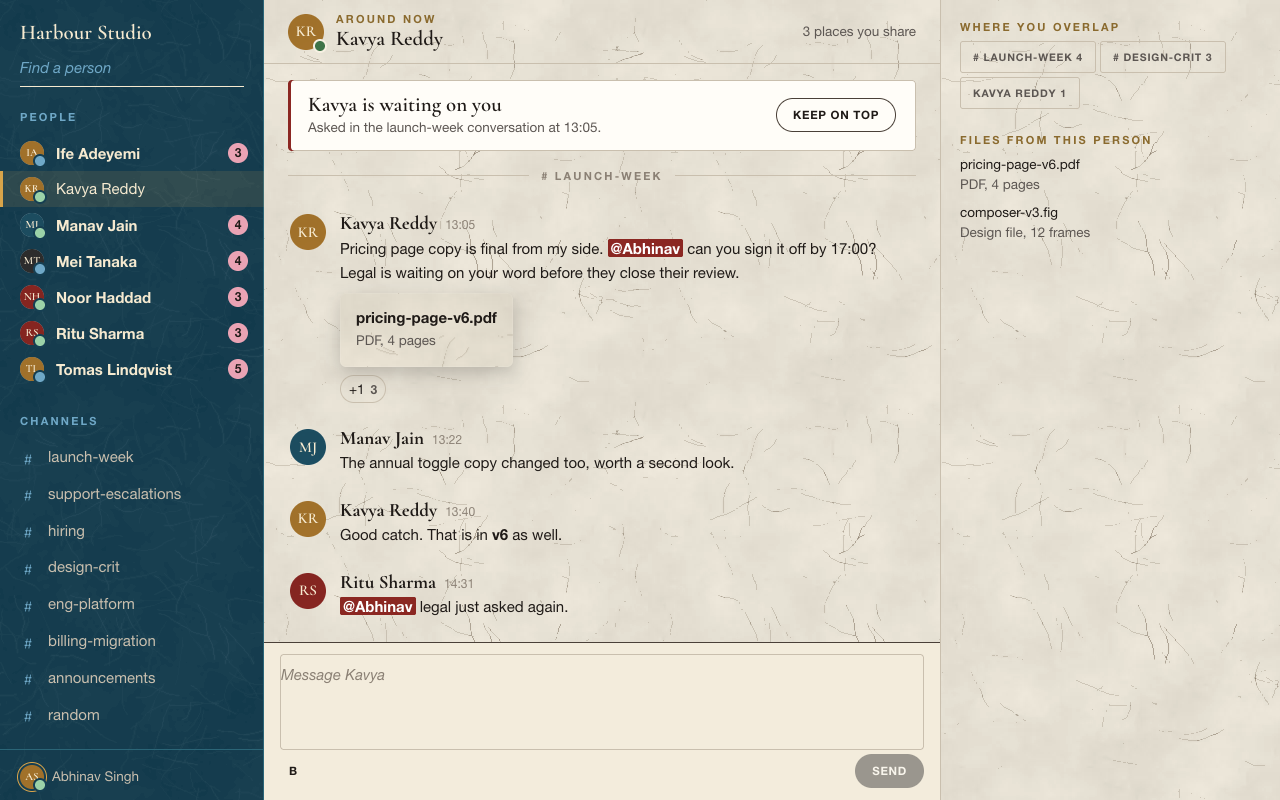
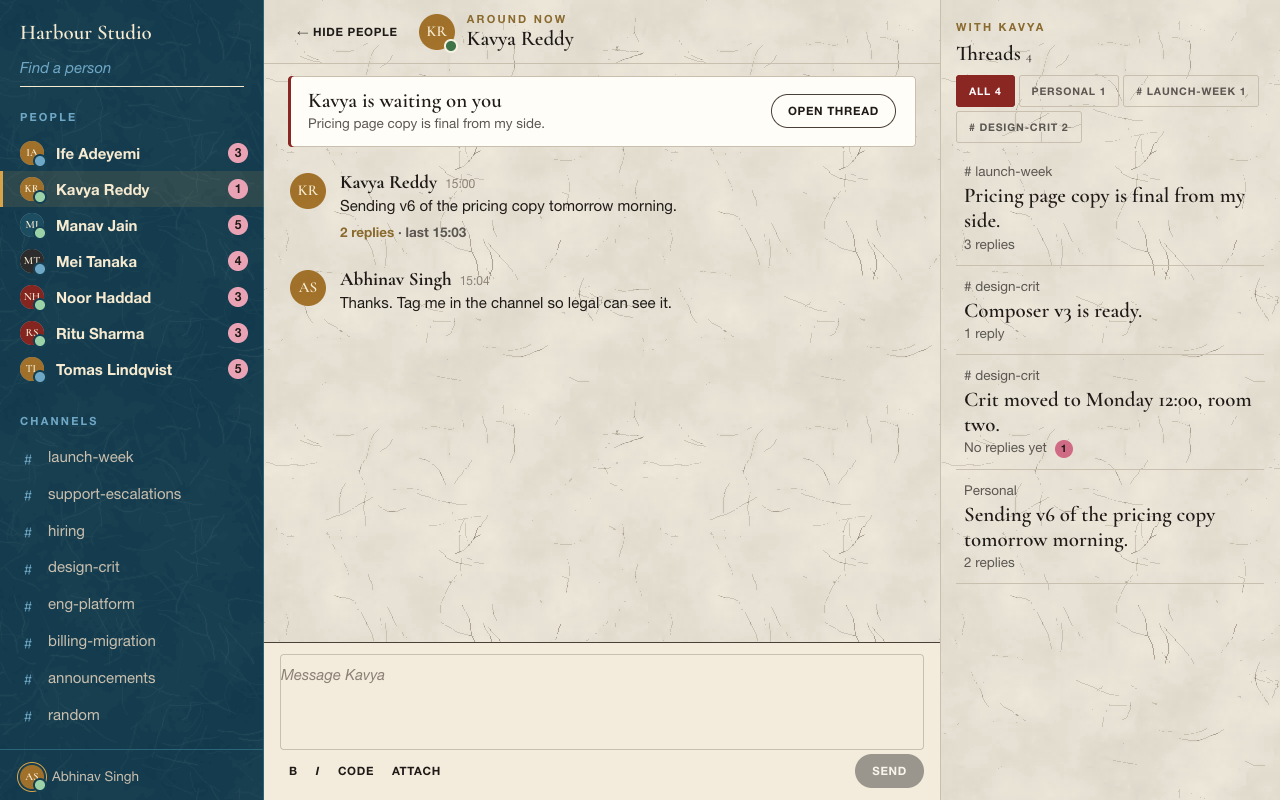
Chat 05: people first, threads panel with filters, channels, closable rail

diff --git a/products/chat/05-people-first/main.tsx b/products/chat/05-people-first/main.tsx
@@ -1,61 +1,113 @@
-// You go to a person, not a channel, and see everything you share with them
-import { useCallback, useState } from 'react';
+// You go to a person: your personal chat opens first, and any thread with them opens beside it
+import { useCallback, useEffect, useRef, useState } from 'react';
 import { createRoot } from 'react-dom/client';
-import { AppShell, Rail, RailSection, RailItem, Tag, Banner, Avatar, Button, Input, EmptyState, StreamDivider, Toast } from '../../../design-system/components';
-import { CONVS, ME, Composer, Talk, title, mine, first } from '../kit';
+import { AppShell, Rail, RailSection, RailItem, Tag, Banner, Avatar, Button, Input, Modal, EmptyState, StreamDivider } from '../../../design-system/components';
+import { CONVS, ME, Composer, Talk, title, mine, first, rich, useNarrow } from '../kit';
 import type { Conv, Msg } from '../kit';
 import './styles.css';
 
-type Item = { conv: Conv; msgs: Msg[] };
-const threads = (c: Conv) => c.messages.map((m) => [m, ...(m.replies ?? [])]);
-const PEOPLE = [...new Set(CONVS.flatMap((c) => threads(c).flat().map((m) => m.who)))].filter((p) => p !== ME).sort();
-const online = (p: string) => CONVS.find((c) => c.kind === 'dm' && c.name === p)?.online ?? !/Mei|Ife/.test(p);
-const shared = (p: string): Item[] => CONVS.map((c) => ({ conv: c, msgs: threads(c).filter((t) => t.some((m) => m.who === p)).flat() })).filter((i) => i.msgs.length);
-const unread = (p: string) => shared(p).flatMap((i) => i.msgs).filter((m) => m.who === p && m.isNew).length;
-const asks = (p: string) => shared(p).flatMap((i) => i.msgs.filter((m) => m.who === p && m.text.includes(`@${first(ME)}`)));
+// Sample replies so personal messages can have threads too.
+const DM_REPLIES: Record<string, Msg[]> = {
+  ky1: [{ id: 'ky1a', who: 'Kavya Reddy', time: '15:02', yesterday: true, text: 'Do you want the annual toggle copy in the same file?' }, { id: 'ky1b', who: ME, time: '15:03', yesterday: true, text: 'Yes, keep it all together.' }],
+  mj1: [{ id: 'mj1a', who: 'Manav Jain', time: '15:34', isNew: true, text: 'Mainly the weekend rota. Tomas has been paged four times this month.' }],
+  nh1: [{ id: 'nh1a', who: ME, time: '18:35', yesterday: true, text: 'How did the Meridian call go?' }, { id: 'nh1b', who: 'Noor Haddad', time: '18:38', yesterday: true, text: 'Fine, they only want an answer on exports.' }],
+  tl1: [{ id: 'tl1a', who: 'Tomas Lindqvist', time: '11:55', text: 'It is one page. The doc is in the launch folder.' }],
+};
+type Thread = { key: string; conv: Conv; root: Msg; replies: Msg[] };
+const threadsOf = (c: Conv): Thread[] => c.messages.map((m) => ({ key: m.id, conv: c, root: m, replies: c.kind === 'dm' ? DM_REPLIES[m.id] ?? [] : m.replies ?? [] }));
+const dmOf = (p: string) => CONVS.find((c) => c.kind === 'dm' && c.name === p);
+const PEOPLE = [...new Set(CONVS.flatMap((c) => threadsOf(c).flatMap((t) => [t.root, ...t.replies]).map((m) => m.who)))].filter((p) => p !== ME).sort();
+const online = (p: string) => dmOf(p)?.online ?? !/Mei|Ife/.test(p);
+const headline = (t: string) => { const s = t.replace(/@[A-Z][a-z]+\s*/g, '').split(/(?<=[.?!])\s/)[0]; return s.length > 70 ? `${s.slice(0, 68)}…` : s; };
+// Threads this person is part of: group threads they spoke in, and personal threads with replies.
+const withPerson = (p: string) => CONVS.filter((c) => c.kind === 'channel' || c.name === p).flatMap(threadsOf).filter((t) => (t.conv.kind === 'dm' ? t.replies.length > 0 : [t.root, ...t.replies].some((m) => m.who === p)));
+const isNewFor = (t: Thread, p: string) => [t.root, ...t.replies].filter((m) => m.who === p && m.isNew).length;
 
 function People() {
+  const narrow = useNarrow();
   const [who, setWho] = useState('Kavya Reddy');
+  const [open, setOpen] = useState<string | null>(null);
+  const [sheet, setSheet] = useState(false);
   const [place, setPlace] = useState<string | null>(null);
-  const [seen, setSeen] = useState<Record<string, boolean>>({ 'Kavya Reddy': true });
+  const [railOpen, setRailOpen] = useState(true);
+  const [chan, setChan] = useState<string | null>(null);
+  const [read, setRead] = useState<Record<string, boolean>>({});
   const [q, setQ] = useState('');
   const [extra, setExtra] = useState<Record<string, Msg[]>>({});
-  const [toast, setToast] = useState<string | null>(null);
-  const clear = useCallback(() => setToast(null), []);
-  const items = shared(who);
-  const shownItems = items.filter((i) => !place || i.conv.id === place);
-  const files = items.flatMap((i) => i.msgs).flatMap((m) => (m.file ? [m.file] : []));
-  const channels = CONVS.filter((c) => c.kind === 'channel');
-  const go = (p: string) => { setWho(p); setPlace(null); setSeen((s) => ({ ...s, [p]: true })); };
+  const stream = useRef<HTMLDivElement>(null);
+  const closeSheet = useCallback(() => setSheet(false), []);
+  const channel = chan ? CONVS.find((c) => c.id === chan)! : null;
+  const threads = channel ? threadsOf(channel) : withPerson(who);
+  const shown = threads.filter((t) => !place || (place === 'personal' ? t.conv.kind === 'dm' : t.conv.id === place));
+  const placesShared = [...new Map(threads.filter((t) => t.conv.kind === 'channel').map((t) => [t.conv.id, t.conv])).values()];
+  const countIn = (id: string) => threads.filter((t) => t.conv.id === id).length;
+  const unread = (p: string) => withPerson(p).reduce((n, t) => n + (read[t.key] ? 0 : isNewFor(t, p)), 0);
+  const dm = dmOf(who);
+  const personal = [...(channel ? channel.messages : dm?.messages ?? []), ...(extra[chan ?? who] ?? [])];
+  const current = threads.find((t) => t.key === open);
+  const ask = threads.find((t) => [t.root, ...t.replies].some((m) => m.who === who && m.text.includes(`@${first(ME)}`)));
   const list = PEOPLE.filter((p) => p.toLowerCase().includes(q.trim().toLowerCase()));
-  const ask = asks(who)[0];
+  const repliesFor = (t: Thread) => [...t.replies, ...(extra[t.key] ?? [])];
+  const go = (p: string) => { setWho(p); setChan(null); setOpen(null); setPlace(null); };
+  const goChan = (id: string) => { setChan(id); setOpen(null); setPlace(null); };
+  const openThread = (key: string) => { setOpen(key); setRead((r) => ({ ...r, [key]: true })); if (narrow) setSheet(true); };
+  useEffect(() => { const el = stream.current; if (el) el.scrollTop = el.scrollHeight; }, [who, personal.length]);
+
+  const panel = current ? (
+    <div className="xch05-thread">
+      <header className="xch05-thread__head">
+        <Button variant="ghost" size="sm" onClick={() => setOpen(null)}>← All threads</Button>
+        <p className="ds-kicker">{title(current.conv)}</p>
+        <h2 className="ds-h4">{headline(current.root.text)}</h2>
+      </header>
+      <div className="xch05-thread__stream">
+        <Talk list={[current.root]} />
+        <StreamDivider>{repliesFor(current).length} {repliesFor(current).length === 1 ? 'reply' : 'replies'}</StreamDivider>
+        <Talk list={repliesFor(current)} />
+      </div>
+      <Composer primary={false} placeholder="Reply in this thread" onSend={(t, f) => setExtra((x) => ({ ...x, [current.key]: [...(x[current.key] ?? []), mine(t, f)] }))} />
+    </div>
+  ) : (
+    <div className="xch05-threads">
+      <p className="ds-kicker">{channel ? `In ${title(channel)}` : `With ${first(who)}`}</p>
+      <h2 className="ds-h4">Threads <span className="ds-caption">{shown.length}</span></h2>
+      {!channel && <div className="xch05-filter" role="group" aria-label="Filter threads">
+        <Tag pressed={!place} onClick={() => setPlace(null)}>{`All ${threads.length}`}</Tag>
+        <Tag pressed={place === 'personal'} onClick={() => setPlace('personal')}>{`Personal ${threads.filter((t) => t.conv.kind === 'dm').length}`}</Tag>
+        {placesShared.map((c) => <Tag key={c.id} pressed={place === c.id} onClick={() => setPlace(c.id)}>{`${title(c)} ${countIn(c.id)}`}</Tag>)}
+      </div>}
+      {shown.length ? <ul>{shown.map((t) => { const n = read[t.key] ? 0 : isNewFor(t, who); return (
+        <li key={t.key}><button type="button" className="xch05-row" onClick={() => openThread(t.key)}>
+          <span className="ds-caption">{t.conv.kind === 'dm' ? 'Personal' : title(t.conv)}</span>
+          <span className="xch05-row__title">{headline(t.root.text)}</span>
+          <span className="ds-caption">{repliesFor(t).length ? `${repliesFor(t).length} ${repliesFor(t).length === 1 ? 'reply' : 'replies'}` : 'No replies yet'}{n > 0 && <span className="xch05-new ds-grain">{n}<span className="ds-sr-only"> new</span></span>}</span>
+        </button></li>
+      ); })}</ul> : <p className="ds-caption">No personal threads with {first(who)} yet.</p>}
+    </div>
+  );
+
   return (
-    <AppShell
+    <div className="xch05-root" data-rail={railOpen ? 'open' : 'closed'}><AppShell
       sidebar={<Rail label="People" header={<><p className="xch05-brand">Harbour Studio</p><Input compact label="Find a person" hideLabel placeholder="Find a person" value={q} onChange={(e) => setQ(e.target.value)} /></>}
         footer={<div className="xch05-me"><Avatar name={ME} size="s" gold presence="on" /><span className="ds-caption">{ME}</span></div>}>
         <RailSection title="People">
-          {list.map((p) => { const n = seen[p] ? 0 : unread(p); return <RailItem key={p} lead={{ avatar: p, presence: online(p) ? 'on' : 'off' }} label={p} current={who === p} unread={n > 0} count={n} onClick={() => go(p)} />; })}
+          {list.map((p) => { const n = unread(p); return <RailItem key={p} lead={{ avatar: p, presence: online(p) ? 'on' : 'off' }} label={p} current={!chan && who === p} unread={n > 0} count={n} onClick={() => go(p)} />; })}
           {!list.length && <li className="ds-caption xch05-none">Nobody by that name.</li>}
         </RailSection>
-        <RailSection title="Channels">{channels.map((c) => <RailItem key={c.id} lead="#" label={c.name} current={place === c.id} onClick={() => setPlace(place === c.id ? null : c.id)} />)}</RailSection>
+        <RailSection title="Channels">{CONVS.filter((c) => c.kind === 'channel').map((c) => <RailItem key={c.id} lead="#" label={c.name} current={chan === c.id} onClick={() => goChan(c.id)} />)}</RailSection>
       </Rail>}
-      header={<><Avatar name={who} size="m" presence={online(who) ? 'on' : 'off'} /><div><p className="ds-kicker">{online(who) ? 'Around now' : 'Away'}</p><h1 className="ds-h4">{who}</h1></div><span className="ds-spacer" /><p className="ds-caption">{items.length} places you share</p></>}
-      aside={<div className="xch05-side">
-        <section><p className="ds-kicker">Where you overlap</p><div className="xch05-tags">{items.map((i) => <Tag key={i.conv.id} pressed={place === i.conv.id} onClick={() => setPlace(place === i.conv.id ? null : i.conv.id)}>{`${title(i.conv)} ${i.msgs.length}`}</Tag>)}</div></section>
-        <section><p className="ds-kicker">Files from this person</p>{files.length ? <ul className="xch05-files">{files.map((f) => <li key={f.name}>{f.name}<span className="ds-caption">{f.meta}</span></li>)}</ul> : <p className="ds-caption">No files shared yet.</p>}</section>
-      </div>}>
+      header={<><Button className="xch05-railbtn" variant="ghost" size="sm" aria-expanded={railOpen} onClick={() => setRailOpen(!railOpen)}>{railOpen ? '← Hide people' : 'Show people →'}</Button>{!channel && <Avatar name={who} size="m" presence={online(who) ? 'on' : 'off'} />}<div><p className="ds-kicker">{channel ? `${channel.members} members` : online(who) ? 'Around now' : 'Away'}</p><h1 className="ds-h4">{channel ? title(channel) : who}</h1></div><span className="ds-spacer" />{narrow && <Button variant="secondary" size="sm" onClick={() => setSheet(true)}>{`Threads ${threads.length}`}</Button>}</>}
+      aside={narrow ? undefined : panel}>
       <div className="xch05-main">
-        <div className="xch05-stream">
-          {ask && !place && <div className="xch05-ask"><Banner title={`${first(who)} is waiting on you`} action={<Button variant="secondary" size="sm" onClick={() => setToast('Pinned to the top until you reply')}>Keep on top</Button>}>Asked in the {items.find((i) => i.msgs.includes(ask))?.conv.name} conversation at {ask.time}.</Banner></div>}
-          <div className="xch05-places">{items.map((i) => <Tag key={i.conv.id} pressed={place === i.conv.id} onClick={() => setPlace(place === i.conv.id ? null : i.conv.id)}>{title(i.conv)}</Tag>)}</div>
-          {shownItems.length === 0 && <EmptyState title={`Nothing with ${first(who)} here`} body="You have no conversation together in that channel." action={<Button variant="secondary" size="sm" onClick={() => setPlace(null)}>Show everything</Button>} />}
-          {shownItems.map((i) => <section key={i.conv.id}><StreamDivider>{title(i.conv)}</StreamDivider><Talk list={i.msgs} /></section>)}
-          {(extra[who] ?? []).length > 0 && <section><StreamDivider>Just now, direct</StreamDivider><Talk list={extra[who]} /></section>}
+        <div className="xch05-stream" ref={stream}>
+          {!channel && ask && !read[ask.key] && <div className="xch05-ask"><Banner title={`${first(who)} is waiting on you`} action={<Button variant="secondary" size="sm" onClick={() => openThread(ask.key)}>Open thread</Button>}>{rich(headline(ask.root.text))}</Banner></div>}
+          {personal.length ? <Talk list={personal} threadFor={(m) => { const t = threads.find((x) => x.key === m.id); return t && repliesFor(t).length ? { count: repliesFor(t).length, last: repliesFor(t)[repliesFor(t).length - 1].time, onOpen: () => openThread(t.key) } : undefined; }} />
+            : <EmptyState title={`Say hello to ${first(who)}`} body="You have no personal chat yet. Your first message starts one." />}
         </div>
-        <Composer placeholder={`Message ${first(who)}`} onSend={(t) => setExtra((x) => ({ ...x, [who]: [...(x[who] ?? []), mine(t)] }))} />
+        <Composer key={chan ?? who} placeholder={channel ? `Message ${title(channel)}` : `Message ${first(who)}`} onSend={(t, f) => { const k = chan ?? who; setExtra((x) => ({ ...x, [k]: [...(x[k] ?? []), mine(t, f)] })); }} />
       </div>
-      {toast && <Toast onDone={clear}>{toast}</Toast>}
-    </AppShell>
+      {narrow && <Modal open={sheet} onClose={closeSheet} variant="sheet" title="Threads">{panel}</Modal>}
+    </AppShell></div>
   );
 }
 createRoot(document.getElementById('root')!).render(<People />);

diff --git a/products/chat/05-people-first/styles.css b/products/chat/05-people-first/styles.css
@@ -3,13 +3,24 @@
 .xch05-me { display: flex; align-items: center; gap: var(--space-2); }
 .xch05-none { padding: 0 var(--space-5); }
 .xch05-main { flex: 1; min-height: 0; display: flex; flex-direction: column; }
-.xch05-stream { flex: 1; min-height: 0; overflow-y: auto; padding-bottom: var(--space-3); }
-.xch05-ask { padding: var(--space-4) var(--space-6) 0; }
-.xch05-places { display: flex; flex-wrap: wrap; gap: var(--space-1); padding: var(--space-3) var(--space-6) 0; }
-.xch05-side { display: flex; flex-direction: column; gap: var(--space-6); padding: var(--space-5); }
-.xch05-side section { display: flex; flex-direction: column; gap: var(--space-2); }
-.xch05-tags { display: flex; flex-wrap: wrap; gap: var(--space-1); }
-.xch05-files { list-style: none; margin: 0; padding: 0; display: flex; flex-direction: column; gap: var(--space-2); font-size: var(--type-body-s-size); overflow-wrap: anywhere; }
-.xch05-files li { display: flex; flex-direction: column; }
-@media (min-width: 1101px) { .xch05-places { display: none; } }
-@media (max-width: 760px) { .xch05-main { height: calc(100svh - 72px); } .xch05-ask, .xch05-places { padding-inline: var(--space-4); } }
+.xch05-stream { flex: 1; min-height: 0; overflow-y: auto; padding-block: var(--space-3); }
+.xch05-ask { padding: 0 var(--space-6) var(--space-3); }
+.xch05-threads { display: flex; flex-direction: column; gap: var(--space-2); padding: var(--space-5) var(--space-4); }
+.xch05-threads ul { list-style: none; margin: 0; padding: 0; }
+.xch05-row { display: flex; flex-direction: column; gap: 2px; width: 100%; padding: var(--space-3) var(--space-2); border: 0; background: none; color: inherit; text-align: left; box-shadow: inset 0 -1px 0 var(--border-subtle); }
+.xch05-row:hover { background: color-mix(in srgb, var(--text-primary) 5%, transparent); }
+.xch05-row__title { font-family: var(--font-serif); font-size: var(--type-heading-4-size); font-weight: 600; line-height: 1.2; }
+.xch05-new { display: inline-grid; place-items: center; min-width: 18px; height: 18px; margin-left: var(--space-2); padding: 0 4px; border-radius: var(--radius-full); background-color: var(--accent-sakura); color: var(--ink-900); font-size: var(--type-label-tag-size); font-weight: 700; }
+.xch05-thread { display: flex; flex-direction: column; flex: 1; height: 100%; min-height: 0; }
+.xch05-thread__head { flex: none; display: flex; flex-direction: column; align-items: flex-start; gap: var(--space-1); padding: var(--space-3) var(--space-4); box-shadow: inset 0 -1px 0 var(--border-subtle); }
+.xch05-thread__stream { flex: 1; min-height: 0; overflow-y: auto; }
+@media (max-width: 1100px) { .xch05-root .ds-sheet .xch05-thread, .xch05-root .ds-sheet .xch05-threads { margin-inline: calc(-1 * var(--space-6)); } .xch05-root .ds-sheet .xch05-thread { flex: 1; min-height: 0; } .xch05-root .ds-sheet:has(.xch05-thread) { overflow: hidden; } .xch05-root .ds-sheet .xch05-thread .xck-composer { margin: 0; } }
+@media (max-width: 760px) { .xch05-main { height: calc(100svh - 72px); } .xch05-ask { padding-inline: var(--space-4); } }
+.xch05-filter { display: flex; flex-wrap: wrap; gap: var(--space-1); }
+@media (min-width: 761px) {
+  .xch05-root[data-rail="closed"] .ds-app { grid-template-columns: minmax(0, 1fr); }
+  .xch05-root[data-rail="closed"] .ds-app--aside { grid-template-columns: minmax(0, 1fr) 340px; }
+  .xch05-root[data-rail="closed"] .ds-app__sidebar { display: none; }
+}
+@media (min-width: 761px) and (max-width: 1100px) { .xch05-root[data-rail="closed"] .ds-app--aside { grid-template-columns: minmax(0, 1fr); } }
+@media (max-width: 760px) { .xch05-railbtn { display: none; } }

diff --git a/products/chat/05-people-first/README.md b/products/chat/05-people-first/README.md
@@ -1,6 +1,6 @@
 # Chat 05: people first
 
-**Idea:** You go to a person, not a channel, and see everything you share with them
+**Idea:** You go to a person: your personal chat opens first, and any thread with them opens beside it
 
 **Intensity:** Medium (assumed: not set in this request; the default)
 
@@ -14,29 +14,25 @@
 
 | Region | Objects | Actions | States |
 | --- | --- | --- | --- |
-| People with presence and unread | sample data | see Must-keep | |
-| Find a person | sample data | see Must-keep | |
-| Channels still reachable | sample data | see Must-keep | |
-| Everything shared with one person | sample data | see Must-keep | |
-| Grouped by place | sample data | see Must-keep | |
-| Filter by shared place | sample data | see Must-keep | |
-| Waiting-on-you notice | sample data | see Must-keep | |
-| Composer to that person | sample data | see Must-keep | |
-| Files from this person | sample data | see Must-keep | |
-| Empty place offers the fix | sample data | see Must-keep | |
+| Rail | people, search, channels | switch person, open a channel | current, unread, presence |
+| Header | person, presence | Threads button at 1100px and below | |
+| Main | waiting notice, personal chat, composer | send, format, attach, open a thread | first-message state |
+| Aside or sheet | Personal and group filters, thread list, or one open thread with replies and composer | open, back, reply | new count |
 
 ## Must-keep
 
 - [x] People with presence and unread — `RailItem`
 - [x] Find a person — `Find a person`
-- [x] Channels still reachable — `RailSection`
-- [x] Everything shared with one person — `shared`
-- [x] Grouped by place — `StreamDivider`
-- [x] Filter by shared place — `Tag`
+- [x] Channels below the people, each opening its chat — `goChan`
+- [x] Close and reopen the left panel — `railOpen`
+- [x] Personal chat is the default — `personal`
+- [x] Threads with this person in one panel — `xch05-threads`
+- [x] A thread opens beside the chat — `xch05-thread`, `openThread`
+- [x] Threads in personal messages open too — `threadFor`
+- [x] Personal and group filters in the Threads panel — `xch05-filter`, `setPlace`
 - [x] Waiting-on-you notice — `Banner`
-- [x] Composer to that person — `Composer`
-- [x] Files from this person — `xch05-files`
-- [x] Empty place offers the fix — `EmptyState`
+- [x] Composer with formatting and attach — `Composer`
+- [x] First message state — `EmptyState`
 
 ## Translation
 
@@ -60,7 +56,7 @@ Night: rail. Paper: main column, aside, sheets.
 
 ## Gives up
 
-Weak for broadcast channels and topics nobody owns. Following a whole channel means leaving the main model. Sending always goes to a direct conversation.
+Weak for broadcast channels and topics nobody owns. Following a whole channel means leaving the main model. You cannot read a whole group here, only the threads this person is in. Personal threads use sample replies written for this layout.
 
 ## System tension
 
